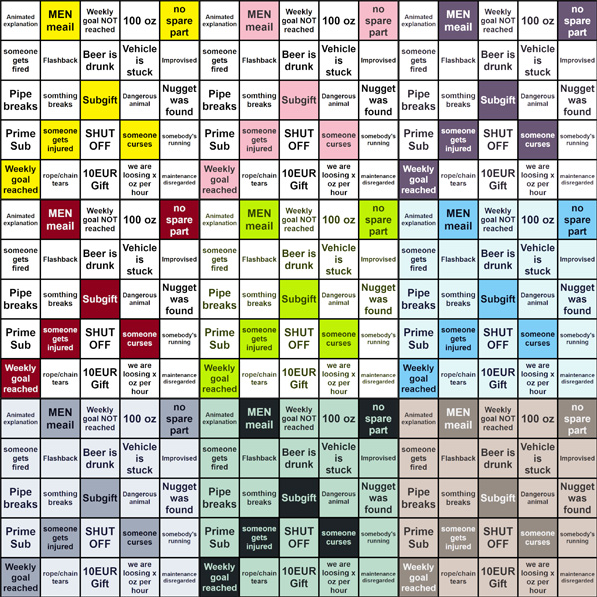
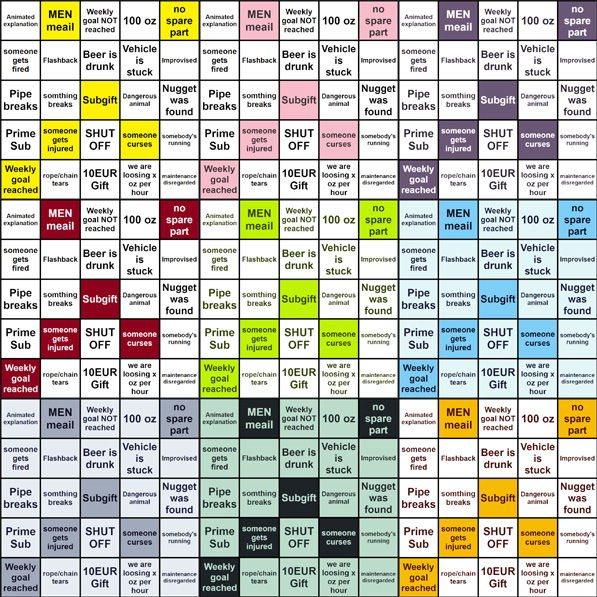
theme update

Changed region(s): [[0.6633, 0.6633, 1.0, 1.0]]

diff --git a/Bingo.html b/Bingo.html
@@ -86,13 +86,13 @@ html[data-theme='Green'] {
 	--set-highlight-color: yellowgreen;
 }
 
-html[data-theme='Light-Brown'] {
-	--background-color: #D9CBC2;
-	--highlight-color: #968C83;
-	--text-color: #373334;
-	--text-highlight: #F0F0F1;
+html[data-theme='Orange'] {
+	--background-color: white;
+	--highlight-color: #F7BB00;
+	--text-color: #450903;
+	--text-highlight: #450903;
 	--set-color: #DCDCDE;
-	--set-highlight-color: #937152;
+	--set-highlight-color: #450903;
 }
 
 body {
@@ -242,7 +242,7 @@ $(function() {
 });
 
 function thememenu() {
-	let themenames = ["Yellow", "Pink", "Purple", "Red", "Lime", "Light-Blue", "Bluish-Grey", "Green", "Light-Brown"];
+	let themenames = ["Yellow", "Pink", "Purple", "Red", "Lime", "Light-Blue", "Bluish-Grey", "Green", "Orange"];
 	let n = themenames.length;
 	themes = new Object();
 
